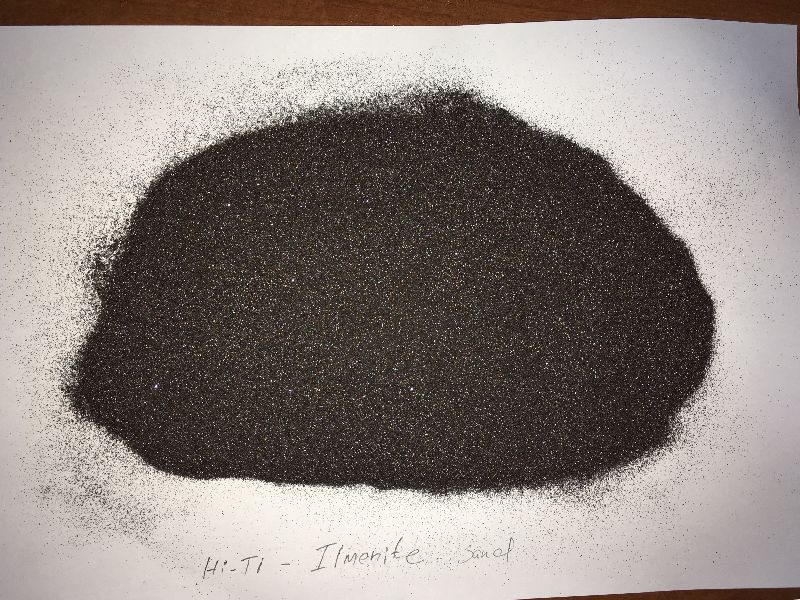
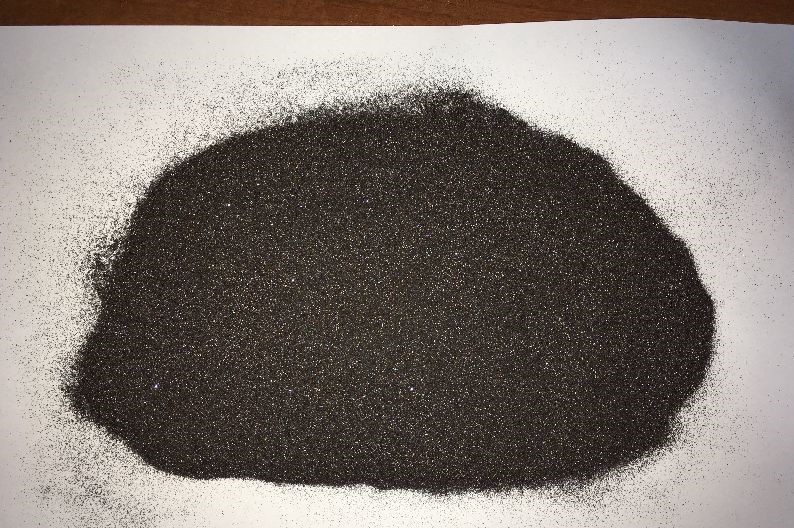
minaral

diff --git a/index-2.html b/index-2.html
@@ -511,7 +511,7 @@
 		<!-- Portfolio Item -->
 		<div class="portfolio-item branding creative coffee">
 		<div class="portfolio-box"> <a class="porfolio-popup gallery-popup-link" href="img/portfolio/large/09.jpg" title="Portfolio Image 09">
-			<div class="portfolio-image-wrap"> <img src="img/portfolio/thumb/09.jpg" alt="" /> </div>
+			<div class="portfolio-image-wrap"> <img src="img/portfolio/large/sand.jpg" alt="" /> </div>
 			<div class="portfolio-caption-mask">
 			<div class="portfolio-caption-text">
 				<div class="portfolio-caption-tb-cell">
